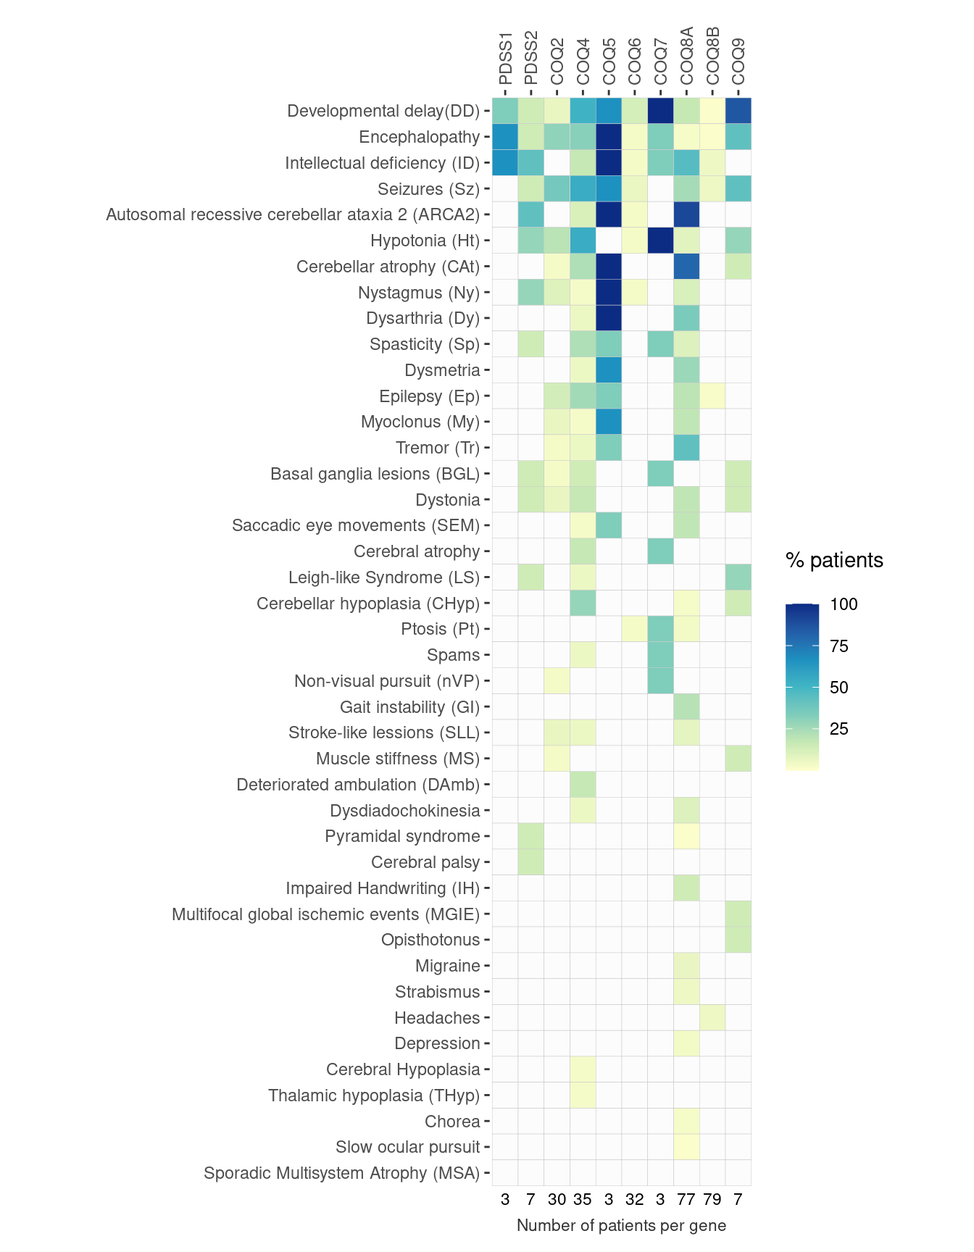
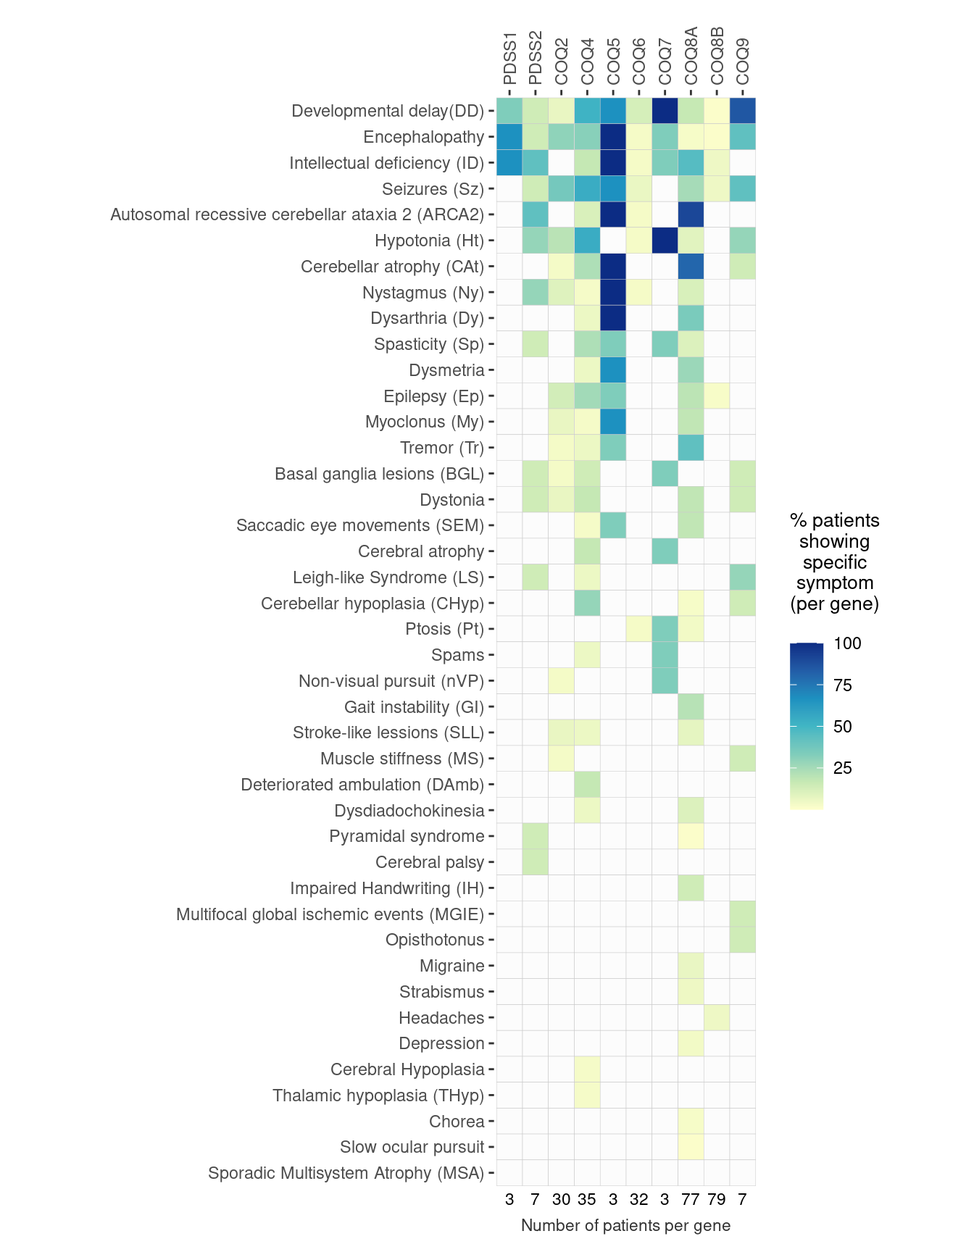
Make heatmap legend title more informative

diff --git a/docs/Table.html b/docs/Table.html
@@ -361,8 +361,8 @@ $(document).ready(function () {
 
 
 <p>In this table you can search by symptom (and link to symptom description). Numbers represent number of patients.</p>
-<div id="htmlwidget-6f500d68b3cc47ef2005" style="width:100%;height:auto;" class="datatables html-widget"></div>
-<script type="application/json" data-for="htmlwidget-6f500d68b3cc47ef2005">{"x":{"filter":"top","filterHTML":"<tr>\n  <td data-type=\"character\" style=\"vertical-align: top;\">\n    <div class=\"form-group has-feedback\" style=\"margin-bottom: auto;\">\n      <input type=\"search\" placeholder=\"All\" class=\"form-control\" style=\"width: 100%;\"/>\n      <span class=\"glyphicon glyphicon-remove-circle form-control-feedback\"><\/span>\n    <\/div>\n  <\/td>\n  <td data-type=\"character\" style=\"vertical-align: top;\">\n    <div class=\"form-group has-feedback\" style=\"margin-bottom: auto;\">\n      <input type=\"search\" placeholder=\"All\" class=\"form-control\" style=\"width: 100%;\"/>\n      <span class=\"glyphicon glyphicon-remove-circle form-control-feedback\"><\/span>\n    <\/div>\n  <\/td>\n  <td data-type=\"number\" style=\"vertical-align: top;\">\n    <div class=\"form-group has-feedback\" style=\"margin-bottom: auto;\">\n      <input type=\"search\" placeholder=\"All\" class=\"form-control\" style=\"width: 100%;\"/>\n      <span class=\"glyphicon glyphicon-remove-circle form-control-feedback\"><\/span>\n    <\/div>\n    <div style=\"display: none; position: absolute; width: 200px;\">\n      <div data-min=\"0\" data-max=\"2\"><\/div>\n      <span style=\"float: left;\"><\/span>\n      <span style=\"float: right;\"><\/span>\n    <\/div>\n  <\/td>\n  <td data-type=\"number\" style=\"vertical-align: top;\">\n    <div class=\"form-group has-feedback\" style=\"margin-bottom: auto;\">\n      <input type=\"search\" placeholder=\"All\" class=\"form-control\" style=\"width: 100%;\"/>\n      <span class=\"glyphicon glyphicon-remove-circle form-control-feedback\"><\/span>\n    <\/div>\n    <div style=\"display: none; position: absolute; width: 200px;\">\n      <div data-min=\"0\" data-max=\"7\"><\/div>\n      <span style=\"float: left;\"><\/span>\n      <span style=\"float: right;\"><\/span>\n    <\/div>\n  <\/td>\n  <td data-type=\"number\" style=\"vertical-align: top;\">\n    <div class=\"form-group has-feedback\" style=\"margin-bottom: auto;\">\n      <input type=\"search\" placeholder=\"All\" class=\"form-control\" style=\"width: 100%;\"/>\n      <span class=\"glyphicon glyphicon-remove-circle form-control-feedback\"><\/span>\n    <\/div>\n    <div style=\"display: none; position: absolute; width: 200px;\">\n      <div data-min=\"0\" data-max=\"26\"><\/div>\n      <span style=\"float: left;\"><\/span>\n      <span style=\"float: right;\"><\/span>\n    <\/div>\n  <\/td>\n  <td data-type=\"number\" style=\"vertical-align: top;\">\n    <div class=\"form-group has-feedback\" style=\"margin-bottom: auto;\">\n      <input type=\"search\" placeholder=\"All\" class=\"form-control\" style=\"width: 100%;\"/>\n      <span class=\"glyphicon glyphicon-remove-circle form-control-feedback\"><\/span>\n    <\/div>\n    <div style=\"display: none; position: absolute; width: 200px;\">\n      <div data-min=\"0\" data-max=\"19\"><\/div>\n      <span style=\"float: left;\"><\/span>\n      <span style=\"float: right;\"><\/span>\n    <\/div>\n  <\/td>\n  <td data-type=\"number\" style=\"vertical-align: top;\">\n    <div class=\"form-group has-feedback\" style=\"margin-bottom: auto;\">\n      <input type=\"search\" placeholder=\"All\" class=\"form-control\" style=\"width: 100%;\"/>\n      <span class=\"glyphicon glyphicon-remove-circle form-control-feedback\"><\/span>\n    <\/div>\n    <div style=\"display: none; position: absolute; width: 200px;\">\n      <div data-min=\"0\" data-max=\"3\"><\/div>\n      <span style=\"float: left;\"><\/span>\n      <span style=\"float: right;\"><\/span>\n    <\/div>\n  <\/td>\n  <td data-type=\"number\" style=\"vertical-align: top;\">\n    <div class=\"form-group has-feedback\" style=\"margin-bottom: auto;\">\n      <input type=\"search\" placeholder=\"All\" class=\"form-control\" style=\"width: 100%;\"/>\n      <span class=\"glyphicon glyphicon-remove-circle form-control-feedback\"><\/span>\n    <\/div>\n    <div style=\"display: none; position: absolute; width: 200px;\">\n      <div data-min=\"0\" data-max=\"26\"><\/div>\n      <span style=\"float: left;\"><\/span>\n      <span style=\"float: right;\"><\/span>\n    <\/div>\n  <\/td>\n  <td data-type=\"number\" style=\"vertical-align: top;\">\n    <div class=\"form-group has-feedback\" style=\"margin-bottom: auto;\">\n      <input type=\"search\" placeholder=\"All\" class=\"form-control\" style=\"width: 100%;\"/>\n      <span class=\"glyphicon glyphicon-remove-circle form-control-feedback\"><\/span>\n    <\/div>\n    <div style=\"display: none; position: absolute; width: 200px;\">\n      <div data-min=\"0\" data-max=\"3\"><\/div>\n      <span style=\"float: left;\"><\/span>\n      <span style=\"float: right;\"><\/span>\n    <\/div>\n  <\/td>\n  <td data-type=\"number\" style=\"vertical-align: top;\">\n    <div class=\"form-group has-feedback\" style=\"margin-bottom: auto;\">\n      <input type=\"search\" placeholder=\"All\" class=\"form-control\" style=\"width: 100%;\"/>\n      <span class=\"glyphicon glyphicon-remove-circle form-control-feedback\"><\/span>\n    <\/div>\n    <div style=\"display: none; position: absolute; width: 200px;\">\n      <div data-min=\"0\" data-max=\"70\"><\/div>\n      <span style=\"float: left;\"><\/span>\n      <span style=\"float: right;\"><\/span>\n    <\/div>\n  <\/td>\n  <td data-type=\"number\" style=\"vertical-align: top;\">\n    <div class=\"form-group has-feedback\" style=\"margin-bottom: auto;\">\n      <input type=\"search\" placeholder=\"All\" class=\"form-control\" style=\"width: 100%;\"/>\n      <span class=\"glyphicon glyphicon-remove-circle form-control-feedback\"><\/span>\n    <\/div>\n    <div style=\"display: none; position: absolute; width: 200px;\">\n      <div data-min=\"0\" data-max=\"65\"><\/div>\n      <span style=\"float: left;\"><\/span>\n      <span style=\"float: right;\"><\/span>\n    <\/div>\n  <\/td>\n  <td data-type=\"number\" style=\"vertical-align: top;\">\n    <div class=\"form-group has-feedback\" style=\"margin-bottom: auto;\">\n      <input type=\"search\" placeholder=\"All\" class=\"form-control\" style=\"width: 100%;\"/>\n      <span class=\"glyphicon glyphicon-remove-circle form-control-feedback\"><\/span>\n    <\/div>\n    <div style=\"display: none; position: absolute; width: 200px;\">\n      <div data-min=\"0\" data-max=\"6\"><\/div>\n      <span style=\"float: left;\"><\/span>\n      <span style=\"float: right;\"><\/span>\n    <\/div>\n  <\/td>\n<\/tr>","data":[["CNS","CNS","CNS","CNS","CNS","CNS","CNS","CNS","CNS","CNS","CNS","CNS","CNS","CNS","CNS","CNS","CNS","CNS","CNS","CNS","CNS","CNS","CNS","CNS","CNS","CNS","CNS","CNS","CNS","CNS","CNS","CNS","CNS","CNS","CNS","CNS","CNS","CNS","CNS","CNS","CNS","CNS","Heart","Heart","Heart","Heart","Heart","Heart","Heart","Heart","Heart","Heart","Heart","Heart","Kidney","Kidney","Kidney","Kidney","Kidney","Kidney","Kidney","Kidney","Kidney","Kidney","Kidney","Liver","Liver","Liver","Liver","Liver","Lung","Lung","Lung","Lung","Lung","Lung","Lung","Muscle","Muscle","Muscle","Muscle","Muscle","Other","Other","Other","Other","Other","Other","Other","Other","Other","Other","Other","Other","Other","Other","Other","Other","Other","Other","Other","Other","Other","Other","Other","PNS/sensory organs","PNS/sensory organs","PNS/sensory organs","PNS/sensory organs","PNS/sensory organs","PNS/sensory organs","PNS/sensory organs","PNS/sensory organs","PNS/sensory organs","PNS/sensory organs","PNS/sensory organs","PNS/sensory organs","PNS/sensory organs","PNS/sensory organs","PNS/sensory organs"],["Autosomal recessive cerebellar ataxia 2 (ARCA2)","Basal ganglia lesions (BGL)","Cerebellar atrophy (CAt)","Cerebellar hypoplasia (CHyp)","Cerebral atrophy","Cerebral Hypoplasia","Cerebral palsy","Chorea","Depression","Deteriorated ambulation (DAmb)","Developmental delay(DD)","Dysarthria (Dy)","Dysdiadochokinesia","Dysmetria","Dystonia","Encephalopathy","Epilepsy (Ep)","Gait instability (GI)","Headaches","Hypotonia (Ht)","Impaired Handwriting (IH)","Intellectual deficiency (ID)","Leigh-like Syndrome (LS)","Migraine","Multifocal global ischemic events (MGIE)","Muscle stiffness (MS)","Myoclonus (My)","Non-visual pursuit (nVP)","Nystagmus (Ny)","Opisthotonus","Ptosis (Pt)","Pyramidal syndrome","Saccadic eye movements (SEM)","Seizures (Sz)","Slow ocular pursuit","Spams","Spasticity (Sp)","Sporadic Multisystem Atrophy (MSA)","Strabismus","Stroke-like lessions (SLL)","Thalamic hypoplasia (THyp)","Tremor (Tr)","Bradycardia","Cardiomegaly","Cardiomyopathy","Heart Failure(HF)","Heart hypoplasia (HHyp)","Hypertrophic Cardiomyopathy (HCM)","Isolated ventricular non-compactation (IVNC)","Pericardial effusion","Septal defects","Tachycardia","Valvulopathy (Vp)","Diastolic dysfunction","Chronic kidney disease (CKD)","Dysplastic kidneys","End-stage Renal Disease (ESRD)","Enlarged kidneys","Hematuria","Kidney dysfunction (KD)","Medullary nephrocalcinosis (MNC)","Only Proteinuria","Renal cysts","Steroid resistant nephrotic syndrome (SRNS)","Tubulopathy (Tp)","Cholestatic Liver","Hepatomegaly","Hepatosteatosis","Liver failure (LF)","Reduced hematopoiesis in liver","Respiratory distress (RD)","Neonatal Pneumonia","Respiratory failure (RF)","Apnea","Chronic Lung Disease (CLD)","Recurrent Respiratory infections","Lung Hypoplasia (LHyp)","Exercise intolerance (EI)","Lipid accumulation in muscle (LAM)","Muscle fatigue (MF)","Muscle weakness (MW)","Myopathy","Dysmorphic features","Edema","Diabetes Mellitus (DM)","Obesity","Hypercholesterolemia","Goiter","Hypothyroidism","Cyanosis","Hypertension (HT)","Hypotension","Livedo Reticularis (LR)","Dyspnea","Circulatory collapse","Noctural enuresis","Polyuria","Polidypsia","Coma","Hypospadias","Lupus-like symptoms","Oligohydramnios","Recurrent Otitis","Splenomegaly","Crohn's Disease (CD)","Astigmatism","Cataracts","Delayed visual maturation","Hearing impairment","Hearing Loss (HL)","Hypermetropia","Myopia","Optic Nerve Atrophy (OA)","Peripheral Neuropathy (PNSN)","Retinitis Pigmentosa (RP)","Retinopathy (Rp)","Rod-Cone dysfunction","Sensorineural hearing loss (SNHL)","Visual aureas","Visual dysfunction"],[0,0,0,0,0,0,0,0,0,0,1,0,0,0,0,2,0,0,0,0,0,2,0,0,0,0,0,0,0,0,0,0,0,0,0,0,0,0,0,0,0,0,0,0,0,0,0,0,0,0,0,0,2,0,0,0,1,0,0,0,0,0,0,1,0,0,0,0,0,0,0,0,0,0,0,0,0,0,0,0,0,0,0,0,0,2,0,0,0,0,1,0,2,0,0,0,0,0,0,0,0,0,0,0,0,0,0,0,0,0,0,0,2,2,0,0,0,2,0,0],[3,1,0,0,0,0,1,0,0,0,1,0,0,0,1,1,0,0,0,2,0,3,1,0,0,0,0,0,2,0,0,1,0,1,0,0,1,0,0,0,0,0,0,0,0,0,0,2,0,0,0,0,0,0,0,0,2,0,0,0,0,0,0,7,0,0,0,0,0,0,0,1,0,0,0,0,0,0,0,0,0,0,0,2,0,0,0,0,0,0,1,0,0,0,0,0,0,0,0,0,0,0,0,0,0,0,1,0,0,0,0,2,1,0,2,0,0,4,0,2],[0,1,1,0,0,0,0,0,0,0,2,0,0,0,2,9,4,0,0,6,0,0,0,0,0,1,2,1,3,0,0,0,0,11,0,0,0,0,0,2,0,1,1,0,0,0,0,3,0,0,0,0,0,0,1,0,10,0,0,2,0,1,0,26,1,1,0,0,3,0,2,0,5,2,1,1,0,0,1,0,1,0,0,11,6,0,2,0,0,0,1,0,0,0,0,0,0,0,0,0,0,4,0,0,0,0,0,0,0,0,0,0,1,0,0,2,0,0,0,0],[4,5,8,10,6,1,0,0,0,6,18,2,2,2,6,11,9,0,0,19,0,6,2,0,0,0,1,0,1,0,0,0,1,19,0,2,8,0,0,2,1,2,5,3,0,2,1,13,0,1,1,2,0,1,0,0,0,0,0,0,0,0,0,0,0,0,0,0,0,0,14,0,5,9,0,1,0,0,0,0,0,2,1,0,0,0,0,0,0,2,0,2,0,0,1,0,0,0,1,0,0,1,0,0,0,0,0,1,2,1,0,0,0,1,0,0,0,0,0,6],[3,0,3,0,0,0,0,0,0,0,2,3,0,2,0,3,1,0,0,0,0,3,0,0,0,0,2,0,3,0,0,0,1,2,0,0,1,0,0,0,0,1,0,0,0,0,0,0,0,0,0,0,0,0,0,0,0,0,0,0,0,0,0,0,0,0,0,0,0,0,0,0,0,0,0,0,0,0,0,0,0,0,0,0,0,0,0,0,0,0,0,0,0,0,0,0,0,0,0,0,0,0,0,0,0,0,0,0,0,0,0,0,0,0,0,0,0,0,0,0],[1,0,0,0,0,0,0,0,0,0,4,0,0,0,0,1,0,0,0,1,0,1,0,0,0,0,0,0,1,0,1,0,0,2,0,0,0,0,0,0,0,0,0,0,0,0,0,0,0,0,1,0,0,0,2,0,16,0,0,0,0,0,0,26,0,0,0,0,0,0,0,0,0,0,0,0,0,0,0,0,3,0,1,2,0,0,1,0,0,0,1,0,0,0,0,0,0,0,0,0,0,0,0,0,0,0,0,0,0,0,0,0,1,0,0,0,0,18,0,1],[0,1,0,0,1,0,0,0,0,0,3,0,0,0,0,1,0,0,0,3,0,1,0,0,0,0,0,1,0,0,1,0,0,0,0,1,1,0,0,0,0,0,0,0,0,1,0,2,0,0,0,0,0,0,0,1,0,0,0,1,0,0,1,0,0,0,0,0,0,0,2,0,0,0,0,0,1,0,0,0,3,1,1,0,0,0,0,0,0,0,1,0,0,0,0,0,0,0,0,0,0,2,0,0,0,0,0,0,0,0,0,0,0,2,0,0,0,3,0,2],[70,0,62,2,0,0,0,2,3,0,13,27,8,21,14,2,15,16,0,7,11,35,0,5,0,0,14,0,9,0,3,1,14,19,1,0,8,0,4,6,0,33,0,0,1,0,0,0,0,0,1,0,0,0,0,0,0,0,0,0,0,0,0,0,0,0,0,1,0,0,0,0,0,0,0,1,0,14,3,3,13,1,1,0,0,0,1,0,0,0,0,0,0,0,0,0,0,0,0,0,0,0,0,0,0,0,1,0,0,0,0,0,0,0,0,0,1,2,1,1],[0,0,0,0,0,0,0,0,0,0,1,0,0,0,0,1,2,0,4,0,0,4,0,0,0,0,0,0,0,0,0,0,0,4,0,0,0,0,0,0,0,0,0,0,2,1,0,2,0,1,2,0,0,0,18,0,47,1,8,1,7,7,0,65,0,0,1,0,0,0,0,0,0,0,0,0,0,0,0,1,1,0,1,16,0,0,1,2,1,0,11,0,0,1,0,2,1,1,0,1,1,0,1,1,1,2,0,0,0,0,2,0,0,0,1,0,0,0,0,1],[0,1,1,1,0,0,0,0,0,0,6,0,0,0,1,3,0,0,0,2,0,0,2,0,1,1,0,0,0,1,0,0,0,3,0,0,0,0,0,0,0,0,2,1,0,0,0,1,1,0,0,0,0,0,0,0,0,1,0,0,0,0,2,0,1,0,0,0,0,1,3,0,0,2,0,0,0,0,0,0,0,0,1,0,0,0,0,0,0,1,1,0,0,0,0,0,0,0,0,0,0,3,0,0,0,0,0,0,0,0,0,0,0,0,0,0,0,0,0,0]],"container":"<table class=\"display\">\n  <thead>\n    <tr>\n      <th>group<\/th>\n      <th>symptom<\/th>\n      <th>PDSS1<\/th>\n      <th>PDSS2<\/th>\n      <th>COQ2<\/th>\n      <th>COQ4<\/th>\n      <th>COQ5<\/th>\n      <th>COQ6<\/th>\n      <th>COQ7<\/th>\n      <th>COQ8A<\/th>\n      <th>COQ8B<\/th>\n      <th>COQ9<\/th>\n    <\/tr>\n  <\/thead>\n<\/table>","options":{"columnDefs":[{"className":"dt-right","targets":[2,3,4,5,6,7,8,9,10,11]}],"order":[],"autoWidth":false,"orderClasses":false,"orderCellsTop":true}},"evals":[],"jsHooks":[]}</script>
+<div id="htmlwidget-d74cfc1099a89bdea843" style="width:100%;height:auto;" class="datatables html-widget"></div>
+<script type="application/json" data-for="htmlwidget-d74cfc1099a89bdea843">{"x":{"filter":"top","filterHTML":"<tr>\n  <td data-type=\"character\" style=\"vertical-align: top;\">\n    <div class=\"form-group has-feedback\" style=\"margin-bottom: auto;\">\n      <input type=\"search\" placeholder=\"All\" class=\"form-control\" style=\"width: 100%;\"/>\n      <span class=\"glyphicon glyphicon-remove-circle form-control-feedback\"><\/span>\n    <\/div>\n  <\/td>\n  <td data-type=\"character\" style=\"vertical-align: top;\">\n    <div class=\"form-group has-feedback\" style=\"margin-bottom: auto;\">\n      <input type=\"search\" placeholder=\"All\" class=\"form-control\" style=\"width: 100%;\"/>\n      <span class=\"glyphicon glyphicon-remove-circle form-control-feedback\"><\/span>\n    <\/div>\n  <\/td>\n  <td data-type=\"number\" style=\"vertical-align: top;\">\n    <div class=\"form-group has-feedback\" style=\"margin-bottom: auto;\">\n      <input type=\"search\" placeholder=\"All\" class=\"form-control\" style=\"width: 100%;\"/>\n      <span class=\"glyphicon glyphicon-remove-circle form-control-feedback\"><\/span>\n    <\/div>\n    <div style=\"display: none; position: absolute; width: 200px;\">\n      <div data-min=\"0\" data-max=\"2\"><\/div>\n      <span style=\"float: left;\"><\/span>\n      <span style=\"float: right;\"><\/span>\n    <\/div>\n  <\/td>\n  <td data-type=\"number\" style=\"vertical-align: top;\">\n    <div class=\"form-group has-feedback\" style=\"margin-bottom: auto;\">\n      <input type=\"search\" placeholder=\"All\" class=\"form-control\" style=\"width: 100%;\"/>\n      <span class=\"glyphicon glyphicon-remove-circle form-control-feedback\"><\/span>\n    <\/div>\n    <div style=\"display: none; position: absolute; width: 200px;\">\n      <div data-min=\"0\" data-max=\"7\"><\/div>\n      <span style=\"float: left;\"><\/span>\n      <span style=\"float: right;\"><\/span>\n    <\/div>\n  <\/td>\n  <td data-type=\"number\" style=\"vertical-align: top;\">\n    <div class=\"form-group has-feedback\" style=\"margin-bottom: auto;\">\n      <input type=\"search\" placeholder=\"All\" class=\"form-control\" style=\"width: 100%;\"/>\n      <span class=\"glyphicon glyphicon-remove-circle form-control-feedback\"><\/span>\n    <\/div>\n    <div style=\"display: none; position: absolute; width: 200px;\">\n      <div data-min=\"0\" data-max=\"26\"><\/div>\n      <span style=\"float: left;\"><\/span>\n      <span style=\"float: right;\"><\/span>\n    <\/div>\n  <\/td>\n  <td data-type=\"number\" style=\"vertical-align: top;\">\n    <div class=\"form-group has-feedback\" style=\"margin-bottom: auto;\">\n      <input type=\"search\" placeholder=\"All\" class=\"form-control\" style=\"width: 100%;\"/>\n      <span class=\"glyphicon glyphicon-remove-circle form-control-feedback\"><\/span>\n    <\/div>\n    <div style=\"display: none; position: absolute; width: 200px;\">\n      <div data-min=\"0\" data-max=\"19\"><\/div>\n      <span style=\"float: left;\"><\/span>\n      <span style=\"float: right;\"><\/span>\n    <\/div>\n  <\/td>\n  <td data-type=\"number\" style=\"vertical-align: top;\">\n    <div class=\"form-group has-feedback\" style=\"margin-bottom: auto;\">\n      <input type=\"search\" placeholder=\"All\" class=\"form-control\" style=\"width: 100%;\"/>\n      <span class=\"glyphicon glyphicon-remove-circle form-control-feedback\"><\/span>\n    <\/div>\n    <div style=\"display: none; position: absolute; width: 200px;\">\n      <div data-min=\"0\" data-max=\"3\"><\/div>\n      <span style=\"float: left;\"><\/span>\n      <span style=\"float: right;\"><\/span>\n    <\/div>\n  <\/td>\n  <td data-type=\"number\" style=\"vertical-align: top;\">\n    <div class=\"form-group has-feedback\" style=\"margin-bottom: auto;\">\n      <input type=\"search\" placeholder=\"All\" class=\"form-control\" style=\"width: 100%;\"/>\n      <span class=\"glyphicon glyphicon-remove-circle form-control-feedback\"><\/span>\n    <\/div>\n    <div style=\"display: none; position: absolute; width: 200px;\">\n      <div data-min=\"0\" data-max=\"26\"><\/div>\n      <span style=\"float: left;\"><\/span>\n      <span style=\"float: right;\"><\/span>\n    <\/div>\n  <\/td>\n  <td data-type=\"number\" style=\"vertical-align: top;\">\n    <div class=\"form-group has-feedback\" style=\"margin-bottom: auto;\">\n      <input type=\"search\" placeholder=\"All\" class=\"form-control\" style=\"width: 100%;\"/>\n      <span class=\"glyphicon glyphicon-remove-circle form-control-feedback\"><\/span>\n    <\/div>\n    <div style=\"display: none; position: absolute; width: 200px;\">\n      <div data-min=\"0\" data-max=\"3\"><\/div>\n      <span style=\"float: left;\"><\/span>\n      <span style=\"float: right;\"><\/span>\n    <\/div>\n  <\/td>\n  <td data-type=\"number\" style=\"vertical-align: top;\">\n    <div class=\"form-group has-feedback\" style=\"margin-bottom: auto;\">\n      <input type=\"search\" placeholder=\"All\" class=\"form-control\" style=\"width: 100%;\"/>\n      <span class=\"glyphicon glyphicon-remove-circle form-control-feedback\"><\/span>\n    <\/div>\n    <div style=\"display: none; position: absolute; width: 200px;\">\n      <div data-min=\"0\" data-max=\"70\"><\/div>\n      <span style=\"float: left;\"><\/span>\n      <span style=\"float: right;\"><\/span>\n    <\/div>\n  <\/td>\n  <td data-type=\"number\" style=\"vertical-align: top;\">\n    <div class=\"form-group has-feedback\" style=\"margin-bottom: auto;\">\n      <input type=\"search\" placeholder=\"All\" class=\"form-control\" style=\"width: 100%;\"/>\n      <span class=\"glyphicon glyphicon-remove-circle form-control-feedback\"><\/span>\n    <\/div>\n    <div style=\"display: none; position: absolute; width: 200px;\">\n      <div data-min=\"0\" data-max=\"65\"><\/div>\n      <span style=\"float: left;\"><\/span>\n      <span style=\"float: right;\"><\/span>\n    <\/div>\n  <\/td>\n  <td data-type=\"number\" style=\"vertical-align: top;\">\n    <div class=\"form-group has-feedback\" style=\"margin-bottom: auto;\">\n      <input type=\"search\" placeholder=\"All\" class=\"form-control\" style=\"width: 100%;\"/>\n      <span class=\"glyphicon glyphicon-remove-circle form-control-feedback\"><\/span>\n    <\/div>\n    <div style=\"display: none; position: absolute; width: 200px;\">\n      <div data-min=\"0\" data-max=\"6\"><\/div>\n      <span style=\"float: left;\"><\/span>\n      <span style=\"float: right;\"><\/span>\n    <\/div>\n  <\/td>\n<\/tr>","data":[["CNS","CNS","CNS","CNS","CNS","CNS","CNS","CNS","CNS","CNS","CNS","CNS","CNS","CNS","CNS","CNS","CNS","CNS","CNS","CNS","CNS","CNS","CNS","CNS","CNS","CNS","CNS","CNS","CNS","CNS","CNS","CNS","CNS","CNS","CNS","CNS","CNS","CNS","CNS","CNS","CNS","CNS","Heart","Heart","Heart","Heart","Heart","Heart","Heart","Heart","Heart","Heart","Heart","Heart","Kidney","Kidney","Kidney","Kidney","Kidney","Kidney","Kidney","Kidney","Kidney","Kidney","Kidney","Liver","Liver","Liver","Liver","Liver","Lung","Lung","Lung","Lung","Lung","Lung","Lung","Muscle","Muscle","Muscle","Muscle","Muscle","Other","Other","Other","Other","Other","Other","Other","Other","Other","Other","Other","Other","Other","Other","Other","Other","Other","Other","Other","Other","Other","Other","Other","PNS/sensory organs","PNS/sensory organs","PNS/sensory organs","PNS/sensory organs","PNS/sensory organs","PNS/sensory organs","PNS/sensory organs","PNS/sensory organs","PNS/sensory organs","PNS/sensory organs","PNS/sensory organs","PNS/sensory organs","PNS/sensory organs","PNS/sensory organs","PNS/sensory organs"],["Autosomal recessive cerebellar ataxia 2 (ARCA2)","Basal ganglia lesions (BGL)","Cerebellar atrophy (CAt)","Cerebellar hypoplasia (CHyp)","Cerebral atrophy","Cerebral Hypoplasia","Cerebral palsy","Chorea","Depression","Deteriorated ambulation (DAmb)","Developmental delay(DD)","Dysarthria (Dy)","Dysdiadochokinesia","Dysmetria","Dystonia","Encephalopathy","Epilepsy (Ep)","Gait instability (GI)","Headaches","Hypotonia (Ht)","Impaired Handwriting (IH)","Intellectual deficiency (ID)","Leigh-like Syndrome (LS)","Migraine","Multifocal global ischemic events (MGIE)","Muscle stiffness (MS)","Myoclonus (My)","Non-visual pursuit (nVP)","Nystagmus (Ny)","Opisthotonus","Ptosis (Pt)","Pyramidal syndrome","Saccadic eye movements (SEM)","Seizures (Sz)","Slow ocular pursuit","Spams","Spasticity (Sp)","Sporadic Multisystem Atrophy (MSA)","Strabismus","Stroke-like lessions (SLL)","Thalamic hypoplasia (THyp)","Tremor (Tr)","Bradycardia","Cardiomegaly","Cardiomyopathy","Heart Failure(HF)","Heart hypoplasia (HHyp)","Hypertrophic Cardiomyopathy (HCM)","Isolated ventricular non-compactation (IVNC)","Pericardial effusion","Septal defects","Tachycardia","Valvulopathy (Vp)","Diastolic dysfunction","Chronic kidney disease (CKD)","Dysplastic kidneys","End-stage Renal Disease (ESRD)","Enlarged kidneys","Hematuria","Kidney dysfunction (KD)","Medullary nephrocalcinosis (MNC)","Only Proteinuria","Renal cysts","Steroid resistant nephrotic syndrome (SRNS)","Tubulopathy (Tp)","Cholestatic Liver","Hepatomegaly","Hepatosteatosis","Liver failure (LF)","Reduced hematopoiesis in liver","Respiratory distress (RD)","Neonatal Pneumonia","Respiratory failure (RF)","Apnea","Chronic Lung Disease (CLD)","Recurrent Respiratory infections","Lung Hypoplasia (LHyp)","Exercise intolerance (EI)","Lipid accumulation in muscle (LAM)","Muscle fatigue (MF)","Muscle weakness (MW)","Myopathy","Dysmorphic features","Edema","Diabetes Mellitus (DM)","Obesity","Hypercholesterolemia","Goiter","Hypothyroidism","Cyanosis","Hypertension (HT)","Hypotension","Livedo Reticularis (LR)","Dyspnea","Circulatory collapse","Noctural enuresis","Polyuria","Polidypsia","Coma","Hypospadias","Lupus-like symptoms","Oligohydramnios","Recurrent Otitis","Splenomegaly","Crohn's Disease (CD)","Astigmatism","Cataracts","Delayed visual maturation","Hearing impairment","Hearing Loss (HL)","Hypermetropia","Myopia","Optic Nerve Atrophy (OA)","Peripheral Neuropathy (PNSN)","Retinitis Pigmentosa (RP)","Retinopathy (Rp)","Rod-Cone dysfunction","Sensorineural hearing loss (SNHL)","Visual aureas","Visual dysfunction"],[0,0,0,0,0,0,0,0,0,0,1,0,0,0,0,2,0,0,0,0,0,2,0,0,0,0,0,0,0,0,0,0,0,0,0,0,0,0,0,0,0,0,0,0,0,0,0,0,0,0,0,0,2,0,0,0,1,0,0,0,0,0,0,1,0,0,0,0,0,0,0,0,0,0,0,0,0,0,0,0,0,0,0,0,0,2,0,0,0,0,1,0,2,0,0,0,0,0,0,0,0,0,0,0,0,0,0,0,0,0,0,0,2,2,0,0,0,2,0,0],[3,1,0,0,0,0,1,0,0,0,1,0,0,0,1,1,0,0,0,2,0,3,1,0,0,0,0,0,2,0,0,1,0,1,0,0,1,0,0,0,0,0,0,0,0,0,0,2,0,0,0,0,0,0,0,0,2,0,0,0,0,0,0,7,0,0,0,0,0,0,0,1,0,0,0,0,0,0,0,0,0,0,0,2,0,0,0,0,0,0,1,0,0,0,0,0,0,0,0,0,0,0,0,0,0,0,1,0,0,0,0,2,1,0,2,0,0,4,0,2],[0,1,1,0,0,0,0,0,0,0,2,0,0,0,2,9,4,0,0,6,0,0,0,0,0,1,2,1,3,0,0,0,0,11,0,0,0,0,0,2,0,1,1,0,0,0,0,3,0,0,0,0,0,0,1,0,10,0,0,2,0,1,0,26,1,1,0,0,3,0,2,0,5,2,1,1,0,0,1,0,1,0,0,11,6,0,2,0,0,0,1,0,0,0,0,0,0,0,0,0,0,4,0,0,0,0,0,0,0,0,0,0,1,0,0,2,0,0,0,0],[4,5,8,10,6,1,0,0,0,6,18,2,2,2,6,11,9,0,0,19,0,6,2,0,0,0,1,0,1,0,0,0,1,19,0,2,8,0,0,2,1,2,5,3,0,2,1,13,0,1,1,2,0,1,0,0,0,0,0,0,0,0,0,0,0,0,0,0,0,0,14,0,5,9,0,1,0,0,0,0,0,2,1,0,0,0,0,0,0,2,0,2,0,0,1,0,0,0,1,0,0,1,0,0,0,0,0,1,2,1,0,0,0,1,0,0,0,0,0,6],[3,0,3,0,0,0,0,0,0,0,2,3,0,2,0,3,1,0,0,0,0,3,0,0,0,0,2,0,3,0,0,0,1,2,0,0,1,0,0,0,0,1,0,0,0,0,0,0,0,0,0,0,0,0,0,0,0,0,0,0,0,0,0,0,0,0,0,0,0,0,0,0,0,0,0,0,0,0,0,0,0,0,0,0,0,0,0,0,0,0,0,0,0,0,0,0,0,0,0,0,0,0,0,0,0,0,0,0,0,0,0,0,0,0,0,0,0,0,0,0],[1,0,0,0,0,0,0,0,0,0,4,0,0,0,0,1,0,0,0,1,0,1,0,0,0,0,0,0,1,0,1,0,0,2,0,0,0,0,0,0,0,0,0,0,0,0,0,0,0,0,1,0,0,0,2,0,16,0,0,0,0,0,0,26,0,0,0,0,0,0,0,0,0,0,0,0,0,0,0,0,3,0,1,2,0,0,1,0,0,0,1,0,0,0,0,0,0,0,0,0,0,0,0,0,0,0,0,0,0,0,0,0,1,0,0,0,0,18,0,1],[0,1,0,0,1,0,0,0,0,0,3,0,0,0,0,1,0,0,0,3,0,1,0,0,0,0,0,1,0,0,1,0,0,0,0,1,1,0,0,0,0,0,0,0,0,1,0,2,0,0,0,0,0,0,0,1,0,0,0,1,0,0,1,0,0,0,0,0,0,0,2,0,0,0,0,0,1,0,0,0,3,1,1,0,0,0,0,0,0,0,1,0,0,0,0,0,0,0,0,0,0,2,0,0,0,0,0,0,0,0,0,0,0,2,0,0,0,3,0,2],[70,0,62,2,0,0,0,2,3,0,13,27,8,21,14,2,15,16,0,7,11,35,0,5,0,0,14,0,9,0,3,1,14,19,1,0,8,0,4,6,0,33,0,0,1,0,0,0,0,0,1,0,0,0,0,0,0,0,0,0,0,0,0,0,0,0,0,1,0,0,0,0,0,0,0,1,0,14,3,3,13,1,1,0,0,0,1,0,0,0,0,0,0,0,0,0,0,0,0,0,0,0,0,0,0,0,1,0,0,0,0,0,0,0,0,0,1,2,1,1],[0,0,0,0,0,0,0,0,0,0,1,0,0,0,0,1,2,0,4,0,0,4,0,0,0,0,0,0,0,0,0,0,0,4,0,0,0,0,0,0,0,0,0,0,2,1,0,2,0,1,2,0,0,0,18,0,47,1,8,1,7,7,0,65,0,0,1,0,0,0,0,0,0,0,0,0,0,0,0,1,1,0,1,16,0,0,1,2,1,0,11,0,0,1,0,2,1,1,0,1,1,0,1,1,1,2,0,0,0,0,2,0,0,0,1,0,0,0,0,1],[0,1,1,1,0,0,0,0,0,0,6,0,0,0,1,3,0,0,0,2,0,0,2,0,1,1,0,0,0,1,0,0,0,3,0,0,0,0,0,0,0,0,2,1,0,0,0,1,1,0,0,0,0,0,0,0,0,1,0,0,0,0,2,0,1,0,0,0,0,1,3,0,0,2,0,0,0,0,0,0,0,0,1,0,0,0,0,0,0,1,1,0,0,0,0,0,0,0,0,0,0,3,0,0,0,0,0,0,0,0,0,0,0,0,0,0,0,0,0,0]],"container":"<table class=\"display\">\n  <thead>\n    <tr>\n      <th>group<\/th>\n      <th>symptom<\/th>\n      <th>PDSS1<\/th>\n      <th>PDSS2<\/th>\n      <th>COQ2<\/th>\n      <th>COQ4<\/th>\n      <th>COQ5<\/th>\n      <th>COQ6<\/th>\n      <th>COQ7<\/th>\n      <th>COQ8A<\/th>\n      <th>COQ8B<\/th>\n      <th>COQ9<\/th>\n    <\/tr>\n  <\/thead>\n<\/table>","options":{"columnDefs":[{"className":"dt-right","targets":[2,3,4,5,6,7,8,9,10,11]}],"order":[],"autoWidth":false,"orderClasses":false,"orderCellsTop":true}},"evals":[],"jsHooks":[]}</script>
 
 
 
